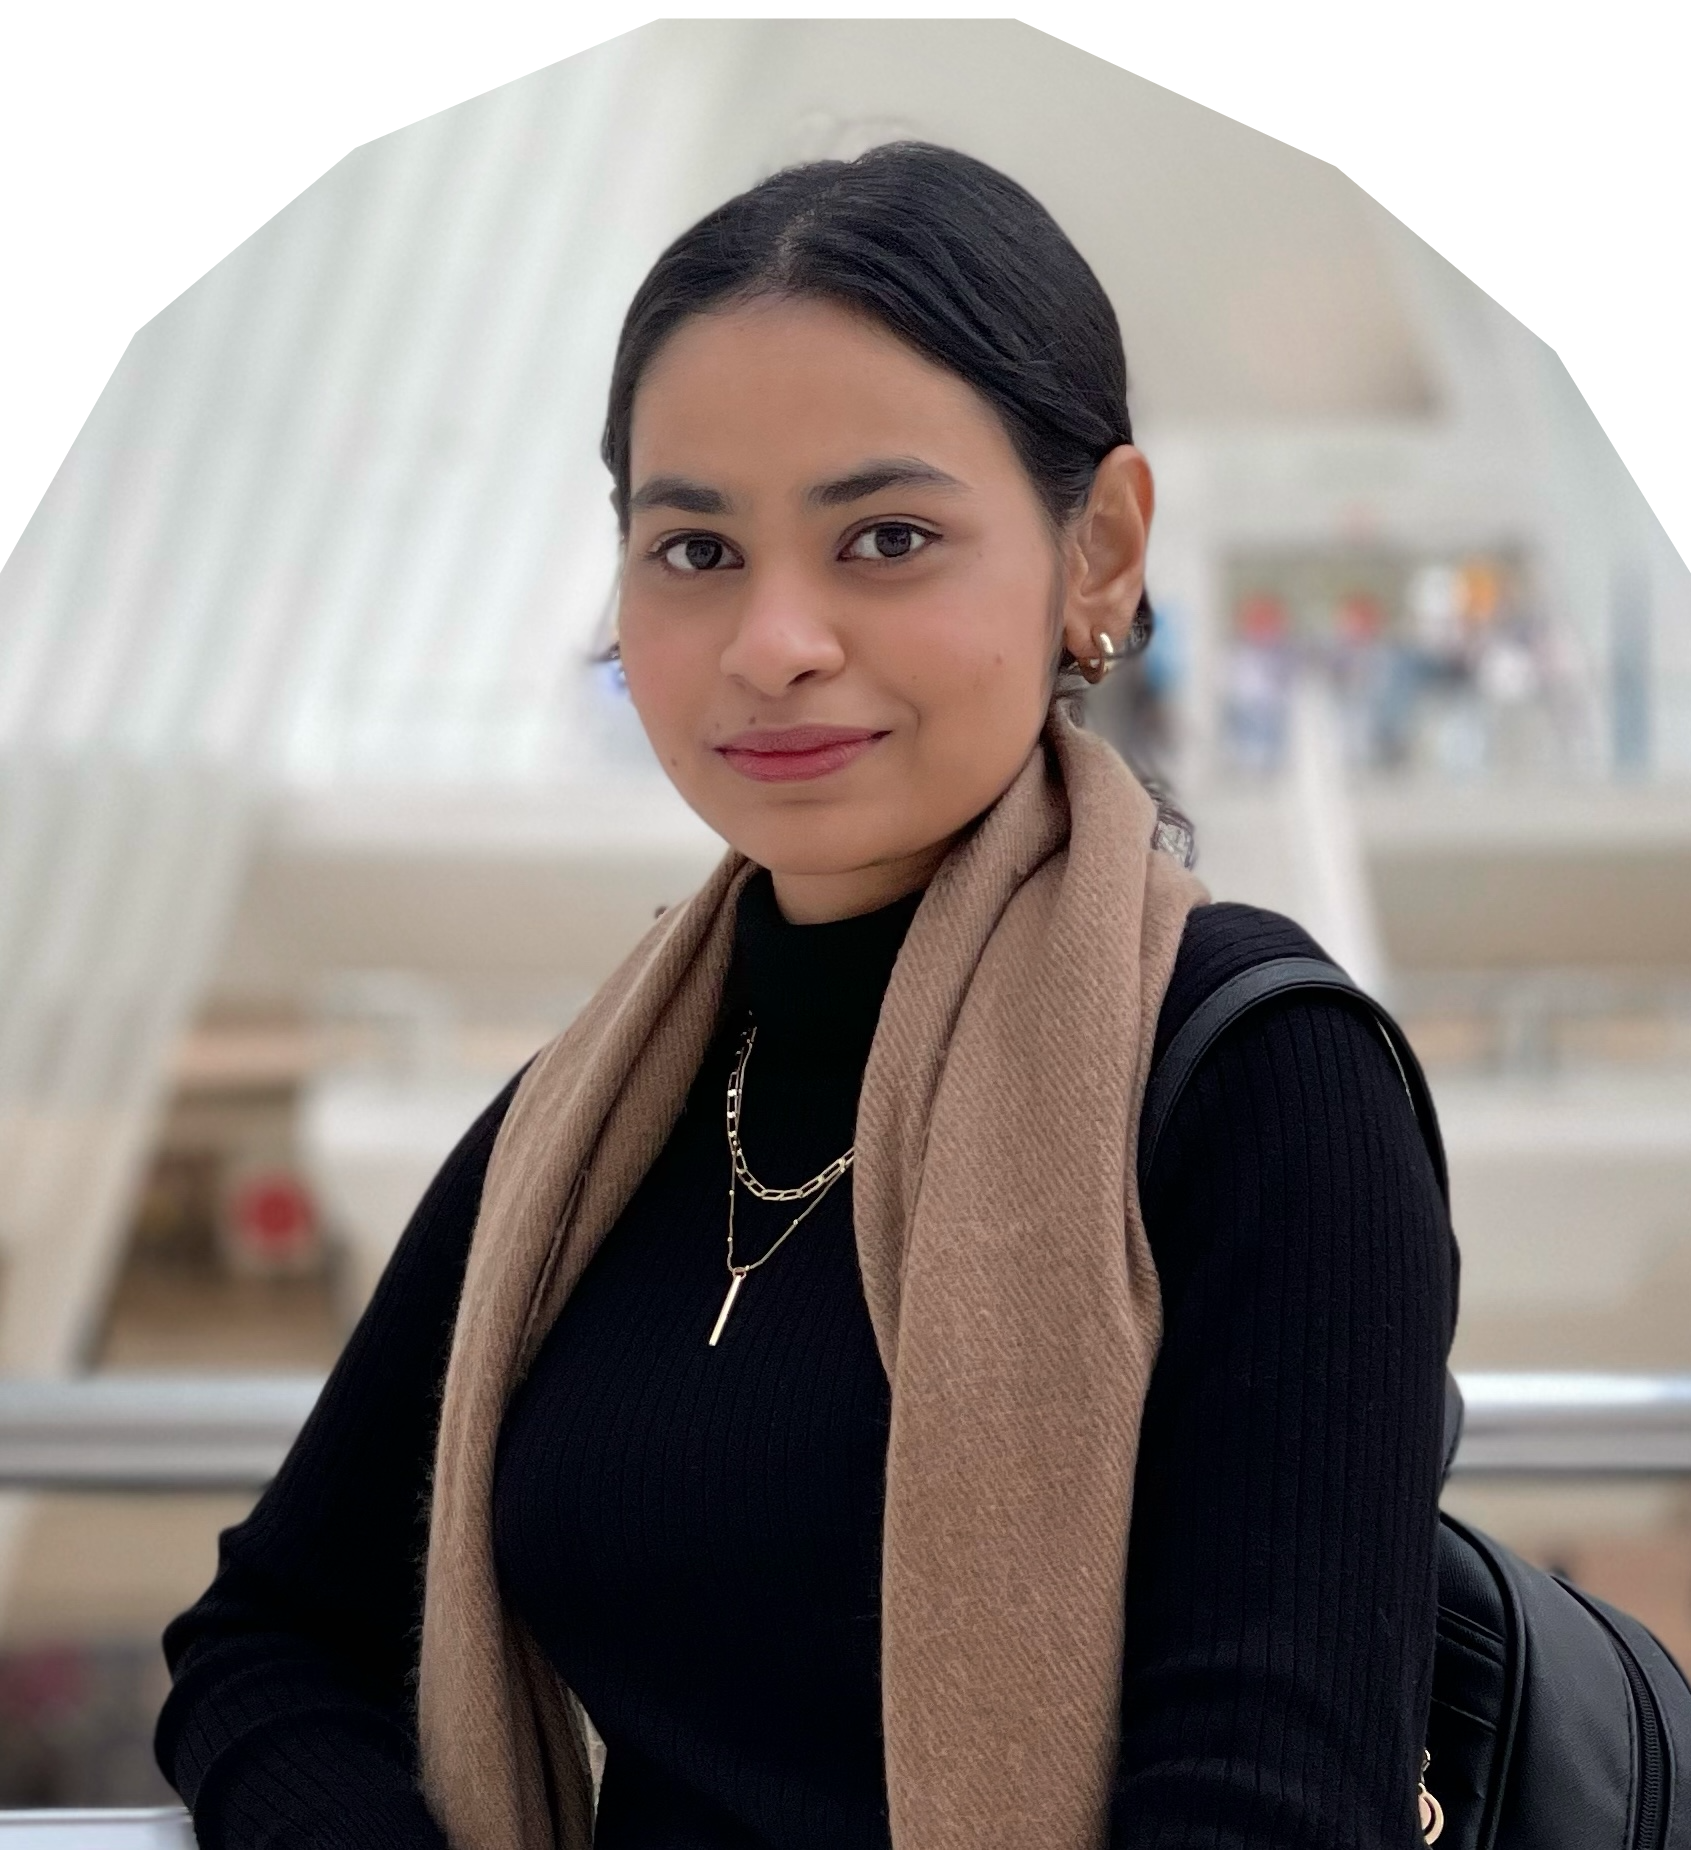
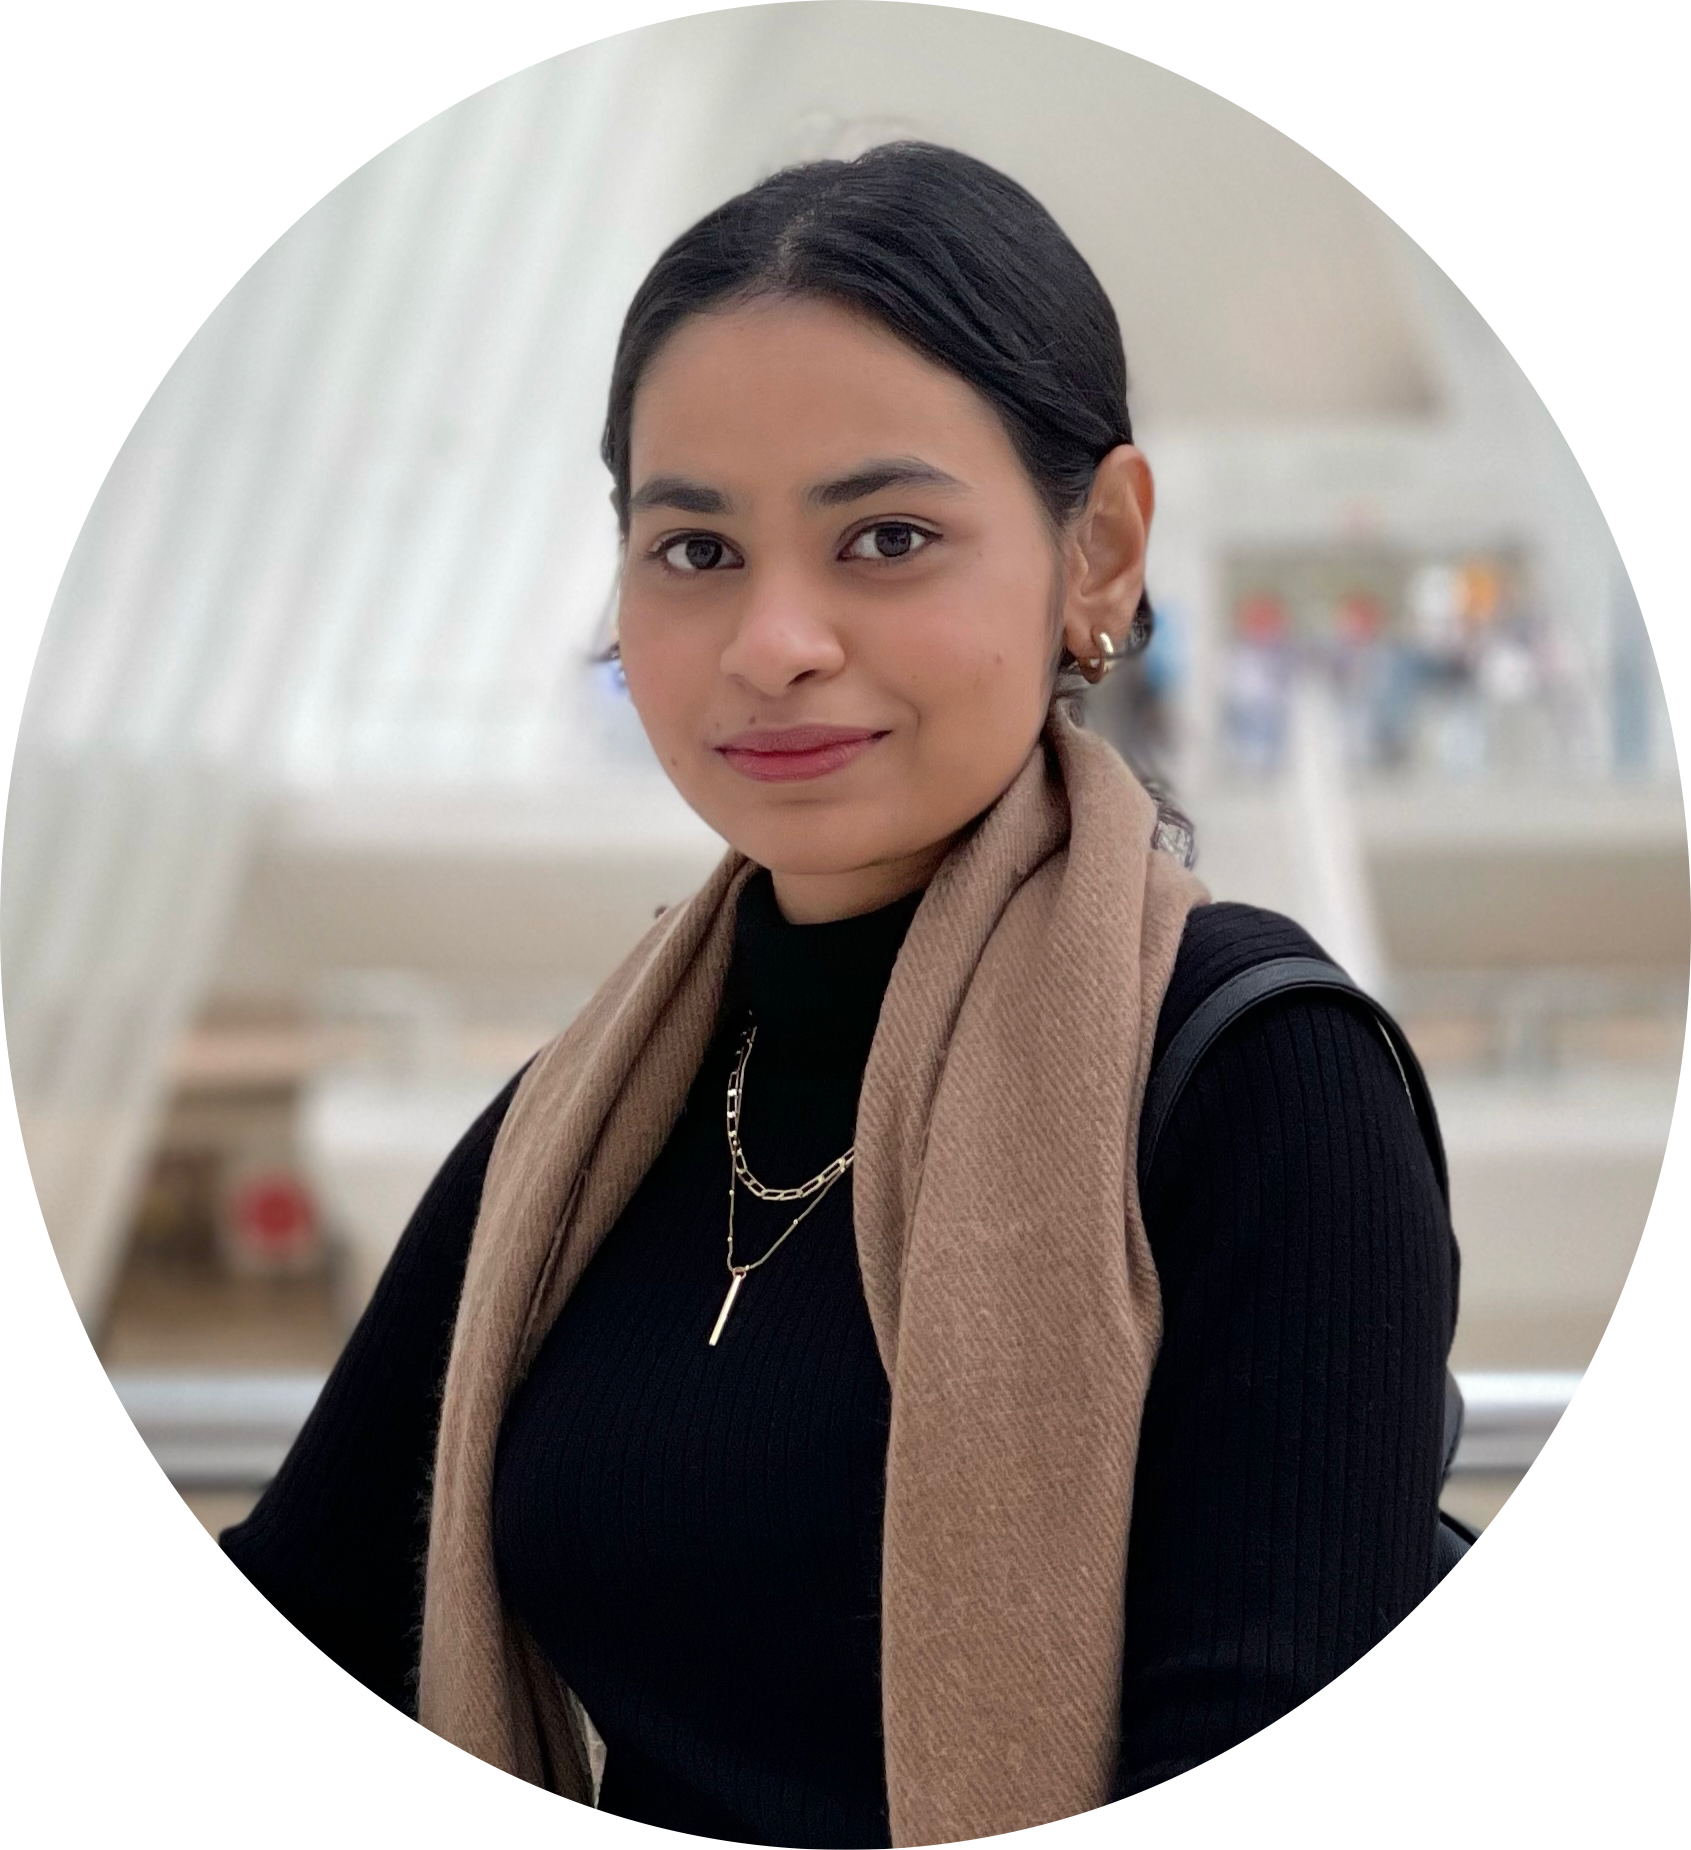
changed

diff --git a/src/scenes/Landing.jsx b/src/scenes/Landing.jsx
@@ -15,12 +15,12 @@ const Landing = ({ setSelectedPage }) => {
       <div className="basis-3/5 z-10 mt-16 md:mt-32 flex justify-center md:order-2">
         {isAboveLarge ? (
           <div
-            className="relative z-0 ml-20 before:absolute before:-top-20 before:-left-20 before:rounded-t-[400px]
-            before:w-full before:max-w-[400px] md:before:max-w-[600px] before:h-full before:border-2 before:border-blue before:z-[-1]"
+            // className="relative z-0 ml-20 before:absolute before:-top-20 before:-left-20 before:rounded-t-[400px]
+            // before:w-full before:max-w-[400px] md:before:max-w-[600px] before:h-full before:border-2 before:border-blue before:z-[-1]"
           >
             <img
               alt="profile"
-              className="hover:filter hover:saturate-200 transition duration-500 z-10 w-full max-w-[400px] md:max-w-[600px]"
+              className="z-10 w-full max-w-[400px] md:max-w-[600px]"
               src={profilePic}
             />
           </div>
